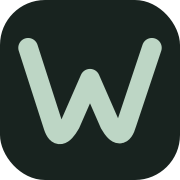
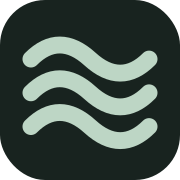
Select Current as Welvia identity with ten-second motion and brand story

Changed region(s): [[0.0833, 0.1944, 0.9167, 0.8333]]

diff --git a/welvia-app/public/brand/brand.css b/welvia-app/public/brand/brand.css
@@ -1,35 +1,6 @@
-.brand-lockup{display:inline-flex;align-items:center;gap:9px;text-decoration:none;font-size:29px;font-weight:750;letter-spacing:-1.8px;color:#18231f}.brand-symbol{width:32px;height:32px;color:#487663;flex-shrink:0;vertical-align:middle}.logo{display:inline-flex;align-items:center;gap:6px}.logo .brand-symbol{width:27px;height:27px}.stroke{transform-origin:center;transition:transform .45s ease}.brand-lockup:hover .stroke,.brand-lockup:focus-visible .stroke,.logo:hover .stroke{transform:scale(.88) rotate(-7deg)}.concept-stage:hover .flow .stroke,.concept-stage:focus .flow .stroke{stroke-dasharray:150;animation:draw 1.6s ease both}.concept-stage:hover .door .stroke,.concept-stage:focus .door .stroke{animation:welcome 1.6s ease both}.concept-stage:hover .link .stroke,.concept-stage:focus .link .stroke{animation:connect 1.6s ease both}@keyframes draw{from{stroke-dashoffset:150}to{stroke-dashoffset:0}}@keyframes welcome{50%{transform:scaleX(1.16)}}@keyframes connect{50%{transform:scale(.8) rotate(8deg)}}@media(prefers-reduced-motion:reduce){*,*::before,*::after{animation:none!important;transition:none!important;scroll-behavior:auto!important}}
-/* The gallery loops independently of hover; all other site marks stay quiet. */
-.concept-stage svg *{transform-box:view-box;transform-origin:32px 32px;animation-duration:4s;animation-timing-function:cubic-bezier(.45,0,.2,1);animation-iteration-count:infinite}
-.concept-stage .flow .stroke{stroke-dasharray:150;animation:study-draw 4s ease-in-out infinite!important}
-.concept-stage .door .stroke{animation:study-door 4s ease-in-out infinite!important}
-.concept-stage .link .stroke{animation:study-connect 4s ease-in-out infinite!important}
-.concept-stage .relay .traveler{animation-name:study-relay}
-.concept-stage .orbit .satellites{animation-name:study-orbit;animation-duration:7s}
-.concept-stage .fold .left{animation-name:study-left}.concept-stage .fold .right{animation-name:study-right}
-.concept-stage .weave .thread{stroke-dasharray:70;animation-name:study-weave}.concept-stage .weave .two{animation-delay:.25s}
-.concept-stage .beacon .echo{animation-name:study-beacon}.concept-stage .beacon .outer{animation-delay:.5s}
-.concept-stage .hinge .panel{transform-origin:35px 32px;animation-name:study-hinge}
-.concept-stage .petal .petals{animation-name:study-petal;animation-duration:6s}
-.concept-stage .assemble .tile{animation-name:study-gather}.concept-stage .assemble .b{--x:7px;--y:-7px;animation-delay:.12s}.concept-stage .assemble .a{--x:-7px;--y:-7px}.concept-stage .assemble .c{--x:-7px;--y:7px;animation-delay:.24s}.concept-stage .assemble .d{--x:7px;--y:7px;animation-delay:.36s}
-.concept-stage .current .wave{animation-name:study-current}.concept-stage .current .b{animation-delay:.2s}.concept-stage .current .c{animation-delay:.4s}
-.concept-stage .portal .arrow{animation-name:study-forward}.concept-stage .portal .frame{animation-name:study-frame}
-@keyframes study-draw{0%,12%{stroke-dashoffset:150}45%,80%{stroke-dashoffset:0}100%{stroke-dashoffset:-150}}
-@keyframes study-door{0%,100%{transform:scaleX(1)}35%,65%{transform:scaleX(1.18)}}
-@keyframes study-connect{0%,100%{transform:scale(.82);opacity:.6}40%,75%{transform:scale(1);opacity:1}}
-@keyframes study-relay{0%,12%{transform:translate(0,0)}35%{transform:translate(10px,-12px)}60%,80%{transform:translate(40px,-24px)}100%{transform:translate(0,0)}}
-@keyframes study-orbit{0%,15%{transform:rotate(0)}85%,100%{transform:rotate(360deg)}}
-@keyframes study-left{0%,100%{transform:translate(-4px,0) rotate(-12deg)}40%,75%{transform:none}}
-@keyframes study-right{0%,100%{transform:translate(4px,0) rotate(12deg)}40%,75%{transform:none}}
-@keyframes study-weave{0%,10%{stroke-dashoffset:70;opacity:.35}50%,80%{stroke-dashoffset:0;opacity:1}100%{stroke-dashoffset:-70;opacity:.35}}
-@keyframes study-beacon{0%{transform:scale(.5);opacity:.15}35%{opacity:.9}80%,100%{transform:scale(1.08);opacity:.15}}
-@keyframes study-hinge{0%,100%{transform:scaleX(.15)}35%,70%{transform:scaleX(1)}}
-@keyframes study-petal{0%,12%{transform:rotate(-20deg) scale(.83)}55%,80%{transform:rotate(100deg) scale(1)}100%{transform:rotate(100deg) scale(.83)}}
-@keyframes study-gather{0%,100%{transform:translate(var(--x),var(--y));opacity:.45}40%,75%{transform:translate(0,0);opacity:1}}
-@keyframes study-current{0%,100%{transform:translateX(-3px)}40%,65%{transform:translateX(3px)}}
-@keyframes study-forward{0%,15%{transform:translateX(-9px);opacity:.25}50%,75%{transform:translateX(0);opacity:1}100%{transform:translateX(9px);opacity:.25}}
-@keyframes study-frame{0%,100%{transform:scale(.94)}50%,75%{transform:scale(1.06)}}
-body.motion-paused .concept-stage svg *,body .concept-stage.motion-offscreen svg *{animation-play-state:paused!important}
-.motion-controls{display:flex;gap:18px;align-items:center;flex-wrap:wrap;margin-top:30px}.motion-controls button{font:inherit;border:1px solid #18231f;border-radius:40px;padding:12px 20px;background:#18231f;color:#f4f3f0;cursor:pointer}.motion-controls button:disabled{opacity:.6;cursor:default}.motion-controls span{font-size:13px;color:#58665d}.design-notes{max-width:800px;margin:0 auto 70px;line-height:1.7}.design-notes h2{font-size:36px;letter-spacing:-.04em}.concept:nth-child(3n+2) .concept-stage{background:#e9e3d6}.concept:nth-child(3n) .concept-stage{background:#18231f}.concept:nth-child(3n) .concept-symbol{color:#bdd6c5}
-@media(prefers-reduced-motion:reduce){.concept-stage svg *{animation:none!important;stroke-dashoffset:0!important}}
-@media(prefers-reduced-motion:reduce){#main .concept-stage svg *{animation:none!important;stroke-dashoffset:0!important}}
+.brand-lockup{display:inline-flex;align-items:center;gap:9px;text-decoration:none;font-size:29px;font-weight:750;letter-spacing:-1.8px;color:#18231f}.brand-symbol{width:32px;height:32px;color:#487663;flex-shrink:0;vertical-align:middle}.logo{display:inline-flex;align-items:center;gap:6px}.logo .brand-symbol{width:27px;height:27px}
+/* One short wave, then rest, in every ten-second cycle. */
+.current .wave{transform-box:view-box;transform-origin:32px 32px;animation:welvia-current 10s cubic-bezier(.45,0,.2,1) infinite}.current .wave.b{animation-delay:.16s}.current .wave.c{animation-delay:.32s}@keyframes welvia-current{0%,24%,100%{transform:translateX(0)}7%{transform:translateX(-3px)}15%{transform:translateX(3px)}}
+html.motion-paused .current .wave,html.page-hidden .current .wave{animation-play-state:paused}.current-intro{padding-bottom:35px}.current-showcase{border-radius:22px;background:#18231f;color:#bdd6c5;padding:50px;margin-bottom:75px}.current-mark-stage{min-height:300px;display:flex;align-items:center;justify-content:center;gap:25px}.current-hero-mark{width:180px;height:180px;flex-shrink:0}.current-wordmark{font-size:clamp(60px,10vw,130px);font-weight:650;letter-spacing:-.08em}.current-caption{display:flex;justify-content:space-between;align-items:center;gap:20px;padding-top:25px;border-top:1px solid #4c6155;font-size:13px}.current-caption button{font:inherit;border:1px solid #bdd6c5;border-radius:30px;background:transparent;color:#e2eee4;padding:10px 17px;cursor:pointer}.current-caption button:disabled{opacity:.6;cursor:default}#motion-status{font-size:12px;color:#bdd6c5;margin-bottom:0}.brand-story{max-width:760px}.brand-story .kicker{color:#487663}.brand-story section{margin-bottom:55px}
+@media(max-width:600px){.current-showcase{padding:25px}.current-mark-stage{min-height:230px;gap:12px}.current-hero-mark{width:100px;height:100px}.current-caption{align-items:start;flex-direction:column;gap:14px}}
+@media(prefers-reduced-motion:reduce){*,*::before,*::after{animation:none!important;transition:none!important;scroll-behavior:auto!important}}

diff --git a/welvia-app/content/brand-profile.html b/welvia-app/content/brand-profile.html
@@ -1,0 +1,12 @@
+<section class="journal-hero current-intro"><span class="kicker">Welvia / Our identity</span><h1>Meet <em>Current.</em></h1><p class="dek">Three lines. A shared direction. A place for small businesses in what comes next.</p></section>
+<section class="current-showcase" aria-label="Current logo"><div class="current-mark-stage">{{CURRENT_MARK}}<span class="current-wordmark">welvia</span></div><div class="current-caption"><span>Discovery · Understanding · Action</span><button type="button" id="motion-toggle" aria-pressed="false">Pause animation</button></div><p id="motion-status" role="status">A gentle wave every ten seconds. Quiet in between.</p></section>
+<article class="prose brand-story">
+<section><span class="kicker">The idea behind the mark</span><h2>Bring the current to the neighborhood.</h2><p>A new way of finding businesses is taking shape. People can ask an assistant to help them explore a service, compare an option or prepare a request. Welvia exists to help independent businesses take part in that journey, with information that is easier to understand and actions their teams can confidently support.</p><p>Current gives that purpose a simple visual form. It suggests movement, connection and continuity. A current carries something forward. Our job is to help bring that movement within reach of the restaurant around the corner, the local service provider and the owner who has a business to run.</p><p>The image we want to create is welcoming: a small business joining a useful flow of activity while keeping its own character, judgment and relationship with its customers. Technology should make the next step easier for those people.</p></section>
+<section><span class="kicker">Why this direction</span><h2>A mark built around what Welvia does.</h2><p>We explored thirteen directions, from monograms and doorways to paths, connections and signals. Current became the selected identity because its three flowing lines connect naturally to Welvia’s purpose. The shape is simple enough to recognize at a glance, and movement is already part of its visual language.</p><p>A wave does not need a complicated reveal to come alive. Each line can move slightly, respond to the next and return to a calm position. That gives us an animation that belongs to the mark itself, rather than an effect that could be attached to any logo.</p><p>It also gives Welvia room to grow. The shape can sit beside a restaurant proposal, a tradesperson’s inquiry form or an article about agent discovery. It represents a shared approach without tying the company to one industry or one piece of software.</p></section>
+<section><span class="kicker">Three currents, one journey</span><h2>Find. Understand. Act.</h2><p>The first line represents <strong>discovery</strong>: making a business’s public information easier to find. A customer’s assistant needs a reliable starting point and a clear path to relevant details.</p><p>The second represents <strong>understanding</strong>: making those details useful. Services, menus, locations, policies and limits should tell a coherent story. The business remains the authority on what it offers.</p><p>The third represents <strong>action</strong>: helping a customer take the next approved step. That might be preparing a complete catering inquiry or requesting a quote. The meaning of that step should be clear, including when staff still need to confirm availability or price.</p><p>The lines travel together but remain distinct. That is intentional. Being found, being understood and completing an action are different jobs. Welvia connects them into a customer journey that can be reviewed and improved.</p></section>
+<section><span class="kicker">How it moves</span><h2>A little momentum. Plenty of calm.</h2><p>Every ten seconds, a gentle movement passes through the three lines. The slight offset gives the mark a sense of one current following another. It then settles, leaving space for the content and the business around it.</p><p>That rhythm expresses how we want Welvia to feel: attentive, steady and helpful. Movement should support the experience. It should not compete with a menu, a customer’s question or the next decision an owner needs to make.</p><p>On-page marks share that rhythm. Browser-tab icons, saved-device icons and social preview images use the still version so the same shape stays recognizable in small and static contexts. People who prefer reduced motion see a still mark.</p></section>
+<section><span class="kicker">A familiar kind of confidence</span><h2>Warmth belongs in technology.</h2><p>The rounded ends soften the geometry. The deep green gives the mark definition, while the sage and cream palette keeps it approachable. Together they express a service built to work alongside people and the businesses they care about.</p><p>We kept the lowercase Welvia wordmark and let the symbol do a small amount of storytelling. The identity should feel comfortable on an independent business’s screen, whether the owner is reviewing a proposal or checking how an assistant answered a customer’s question.</p></section>
+<aside class="takeaway"><span class="kicker">What Current stands for</span><p>Small businesses should have a place in the next flow of commerce. Welvia helps them become easier to discover, easier to understand and ready for a useful next step.</p></aside>
+<section><h2>A practical identity</h2><p>The same vector geometry appears across the website, business pages and journal. A compact version serves as the favicon. The mark can be used in deep green on a light surface or in sage on a dark surface, with enough space around it to keep all three lines legible.</p><p>This is the selected Welvia identity, not a claim of certification or a promise that every agent will discover every business. Its role is to express the work we are committed to doing: bringing the currents of new technology closer to small businesses, one useful connection at a time.</p><p><a href="/brand/current.svg" download>Download the Current mark (SVG) ↗</a></p></section>
+</article>
+<section class="closing"><span class="kicker">Welvia</span><h2>Small businesses.<br>Part of what comes next.</h2><p>Discoverable. Understandable. Actionable.</p><a class="button" href="/blog/index.html">Explore the journal ↗</a></section>

diff --git a/welvia-app/public/brand/motion.js b/welvia-app/public/brand/motion.js
@@ -1,0 +1,3 @@
+(()=>{const root=document.documentElement,button=document.getElementById('motion-toggle'),status=document.getElementById('motion-status'),reduced=matchMedia('(prefers-reduced-motion: reduce)');let paused=false;
+function sync(){root.classList.toggle('motion-paused',paused);root.classList.toggle('page-hidden',document.hidden);if(button){button.disabled=reduced.matches;button.textContent=paused?'Play animation':'Pause animation';button.setAttribute('aria-pressed',String(paused));status.textContent=reduced.matches?'A still mark, respecting your reduced-motion preference.':paused?'Animation paused.':'A gentle wave every ten seconds. Quiet in between.';}}
+button?.addEventListener('click',()=>{paused=!paused;sync()});document.addEventListener('visibilitychange',sync);reduced.addEventListener('change',sync);sync();})();

diff --git a/welvia-app/scripts/build_editorial.py b/welvia-app/scripts/build_editorial.py
@@ -1,6 +1,6 @@
 """Render public editorial HTML without exposing any business database records."""
 import json,html,re,math
-from brand_studies import SHAPES,CONCEPTS
+from brand_studies import SHAPES
 from pathlib import Path
 from datetime import date,datetime,timezone
 from email.utils import format_datetime
@@ -14,22 +14,20 @@ for p in POSTS:
  assert p['date']<=TODAY and p['date']<=p['updated']<=TODAY
  assert all(s['url'].startswith('https://') for s in p['sources'])
 POSTS.sort(key=lambda p:p['date'],reverse=True)
-def svg(kind='flow',cls='brand-symbol'):
- shapes={'flow':'<path class="stroke" d="M10 17 L19 45 Q21 51 25 44 L32 28 L39 44 Q43 51 45 44 L54 17"/>', 'door':'<path class="stroke" d="M16 49 V29 A16 16 0 0 1 32 13 A16 16 0 0 1 48 29 V49 M26 49 V31 A6 6 0 0 1 38 31 V49"/>', 'link':'<path class="stroke" d="M27 20 L20 20 A12 12 0 0 0 20 44 H27 M37 20 H44 A12 12 0 0 1 44 44 H37 M24 32 H40"/>'}
- shapes.update(SHAPES)
- return f'<svg class="{cls} {kind}" viewBox="0 0 64 64" fill="none" stroke="currentColor" stroke-width="7" stroke-linecap="round" stroke-linejoin="round" aria-hidden="true">{shapes[kind]}</svg>'
+def svg(kind='current',cls='brand-symbol'):
+ return f'<svg class="{cls} current" viewBox="0 0 64 64" fill="none" stroke="currentColor" stroke-width="7" stroke-linecap="round" stroke-linejoin="round" aria-hidden="true">{SHAPES["current"]}</svg>'
 def logo():return '<a class="brand-lockup" href="/" aria-label="Welvia home">'+svg()+'<span>welvia</span></a>'
 def head(title,desc,path,index=True,article=None):
  url=HOST+path
- schema={'@context':'https://schema.org','@type':'Blog' if path=='/blog/index.html' else 'WebPage','name':title,'url':url,'description':desc,'publisher':{'@type':'Organization','name':'Welvia','url':HOST+'/','logo':HOST+'/brand/icon-512.png'}}
+ schema={'@context':'https://schema.org','@type':'Blog' if path=='/blog/index.html' else 'WebPage','name':title,'url':url,'description':desc,'publisher':{'@type':'Organization','name':'Welvia','url':HOST+'/','logo':HOST+'/brand/icon-512.png?v=current-1'}}
  extra=''
  if article:
-  schema.update({'@type':'BlogPosting','headline':article['title'],'datePublished':article['date'],'dateModified':article['updated'],'author':{'@type':'Organization','name':'Welvia','url':HOST+'/'},'mainEntityOfPage':url,'image':HOST+'/brand/social-card.png','inLanguage':'en-US','citation':[s['url'] for s in article['sources']]})
+  schema.update({'@type':'BlogPosting','headline':article['title'],'datePublished':article['date'],'dateModified':article['updated'],'author':{'@type':'Organization','name':'Welvia','url':HOST+'/'},'mainEntityOfPage':url,'image':HOST+'/brand/social-card.png?v=current-1','inLanguage':'en-US','citation':[s['url'] for s in article['sources']]})
   extra=f'<meta property="article:published_time" content="{article["date"]}T12:00:00Z"><meta property="article:modified_time" content="{article["updated"]}T12:00:00Z"><meta property="article:section" content="{E(article["category"])}"><link rel="alternate" type="text/markdown" href="{E(path[:-5]+".md")}">'
- return f'''<meta charset="utf-8"><meta name="viewport" content="width=device-width,initial-scale=1"><title>{E(title)}</title><meta name="description" content="{E(desc)}"><meta name="robots" content="{'index,follow,max-image-preview:large' if index else 'noindex,nofollow'}"><meta name="theme-color" content="#18231f"><meta name="color-scheme" content="light"><meta name="referrer" content="strict-origin-when-cross-origin"><link rel="canonical" href="{url}"><link rel="icon" type="image/svg+xml" href="/brand/favicon.svg"><link rel="icon" type="image/png" sizes="32x32" href="/brand/favicon-32.png"><link rel="apple-touch-icon" sizes="180x180" href="/brand/apple-touch-icon.png"><link rel="manifest" href="/site.webmanifest"><meta property="og:type" content="{'article' if article else 'website'}"><meta property="og:site_name" content="Welvia"><meta property="og:locale" content="en_US"><meta property="og:title" content="{E(title)}"><meta property="og:description" content="{E(desc)}"><meta property="og:url" content="{url}"><meta property="og:image" content="{HOST}/brand/social-card.png"><meta property="og:image:width" content="1200"><meta property="og:image:height" content="630"><meta property="og:image:alt" content="Welvia — Small businesses. Ready for what comes next."><meta name="twitter:card" content="summary_large_image"><meta name="twitter:title" content="{E(title)}"><meta name="twitter:description" content="{E(desc)}"><meta name="twitter:image" content="{HOST}/brand/social-card.png"><meta name="twitter:image:alt" content="Welvia — Small businesses. Ready for what comes next."><link rel="alternate" type="application/rss+xml" title="Welvia Journal" href="/blog/feed.xml"><link rel="describedby" href="/llms.txt" type="text/plain">{extra}<script type="application/ld+json">{json.dumps(schema).replace('<',chr(92)+'u003c')}</script>'''
+ return f'''<meta charset="utf-8"><meta name="viewport" content="width=device-width,initial-scale=1"><title>{E(title)}</title><meta name="description" content="{E(desc)}"><meta name="robots" content="{'index,follow,max-image-preview:large' if index else 'noindex,nofollow'}"><meta name="theme-color" content="#18231f"><meta name="color-scheme" content="light"><meta name="referrer" content="strict-origin-when-cross-origin"><link rel="canonical" href="{url}"><link rel="icon" type="image/svg+xml" href="/brand/favicon.svg?v=current-1"><link rel="icon" type="image/png" sizes="32x32" href="/brand/favicon-32.png?v=current-1"><link rel="apple-touch-icon" sizes="180x180" href="/brand/apple-touch-icon.png?v=current-1"><link rel="manifest" href="/site.webmanifest"><meta property="og:type" content="{'article' if article else 'website'}"><meta property="og:site_name" content="Welvia"><meta property="og:locale" content="en_US"><meta property="og:title" content="{E(title)}"><meta property="og:description" content="{E(desc)}"><meta property="og:url" content="{url}"><meta property="og:image" content="{HOST}/brand/social-card.png?v=current-1"><meta property="og:image:width" content="1200"><meta property="og:image:height" content="630"><meta property="og:image:alt" content="Welvia — Small businesses. Ready for what comes next."><meta name="twitter:card" content="summary_large_image"><meta name="twitter:title" content="{E(title)}"><meta name="twitter:description" content="{E(desc)}"><meta name="twitter:image" content="{HOST}/brand/social-card.png?v=current-1"><meta name="twitter:image:alt" content="Welvia — Small businesses. Ready for what comes next."><link rel="alternate" type="application/rss+xml" title="Welvia Journal" href="/blog/feed.xml"><link rel="describedby" href="/llms.txt" type="text/plain">{extra}<script type="application/ld+json">{json.dumps(schema).replace('<',chr(92)+'u003c')}</script>'''
 def shell(title,desc,path,body,index=True,article=None):
- return '<!doctype html><html lang="en"><head>'+head(title,desc,path,index,article)+'<link rel="stylesheet" href="/brand/brand.css"><link rel="stylesheet" href="/blog/editorial.css"></head><body><a class="skip" href="#main">Skip to content</a><header><nav>'+logo()+'<div><a href="/blog/index.html">Journal</a><a class="button" href="/#how">Explore Welvia ↗</a></div></nav></header><main id="main">'+body+'</main><footer>'+logo()+'<p>Small businesses. Ready for what comes next.</p><a href="/blog/feed.xml">RSS feed ↗</a><span>© '+TODAY[:4]+' Welvia</span></footer></body></html>'
-def card(p,i):return f'<a class="story-card" href="/blog/{p["slug"]}.html"><div class="card-art art-{i%3}" aria-hidden="true">{svg(["flow","door","link"][i%3],"art-symbol")}<span>{str(i+1).zfill(2)}</span></div><div class="card-copy"><span class="kicker">{E(p["category"])}</span><h2>{E(p["title"])}</h2><p>{E(p["description"])}</p><span class="read">Read the story ↗</span></div></a>'
+ return '<!doctype html><html lang="en"><head>'+head(title,desc,path,index,article)+'<link rel="stylesheet" href="/brand/brand.css?v=current-1"><script src="/brand/motion.js" defer></script><link rel="stylesheet" href="/blog/editorial.css"></head><body><a class="skip" href="#main">Skip to content</a><header><nav>'+logo()+'<div><a href="/blog/index.html">Journal</a><a class="button" href="/#how">Explore Welvia ↗</a></div></nav></header><main id="main">'+body+'</main><footer>'+logo()+'<p>Small businesses. Ready for what comes next.</p><a href="/blog/feed.xml">RSS feed ↗</a><span>© '+TODAY[:4]+' Welvia</span></footer></body></html>'
+def card(p,i):return f'<a class="story-card" href="/blog/{p["slug"]}.html"><div class="card-art art-{i%3}" aria-hidden="true">{svg("current","art-symbol")}<span>{str(i+1).zfill(2)}</span></div><div class="card-copy"><span class="kicker">{E(p["category"])}</span><h2>{E(p["title"])}</h2><p>{E(p["description"])}</p><span class="read">Read the story ↗</span></div></a>'
 (OUT/'blog').mkdir(parents=True,exist_ok=True)
 for i,p in enumerate(POSTS):
  path='/blog/'+p['slug']+'.html'; words=sum(len(x.split()) for s in p['sections'] for x in s['paragraphs']); mins=max(2,math.ceil(words/200))
@@ -57,20 +55,14 @@ for path,d in [('/blog/index.html',max(p['updated'] for p in POSTS))]+[('/blog/'
 (OUT/'sitemap.xml').write_bytes(tostring(sm,encoding='utf-8',xml_declaration=True))
 # Preserve the homepage's existing noindex policy and private invitation flows.
 f=OUT/'index.html';s=f.read_text();s=re.sub(r'<meta charset="utf-8">.*?<title>.*?</title>',head('Welvia | Make your business discoverable and actionable','Help compatible AI agents understand your business and prepare useful requests. Clear information, approved actions and measurable checks.','/',False),s,count=1,flags=re.S)
-s=s.replace('</head>','<link rel="stylesheet" href="/brand/brand.css"></head>').replace('welvia<i>✳</i>','welvia'+svg()).replace('welvia✳','welvia').replace('✳','·')
+s=s.replace('</head>','<link rel="stylesheet" href="/brand/brand.css?v=current-1"><script src="/brand/motion.js" defer></script></head>').replace('welvia<i>✳</i>',svg()+'welvia').replace('welvia✳',svg()+'welvia').replace('✳','·')
 s=s.replace('<a href="#growth">Why now</a>','<a href="/blog/index.html">Journal</a><a href="#growth">Why now</a>')
 f.write_text(s)
-f=OUT/'pitch-template.html';s=f.read_text().replace('welvia<i>✳</i>','welvia'+svg()).replace('welvia✳','welvia');f.write_text(s)
-# Three live vector concepts: CSS motion stops for reduced-motion preferences.
-concepts=[('flow','01 / Flow W','A continuous path from a question to a useful action. The strongest fit for a compact favicon.'),('door','02 / Open door','A welcoming entrance for the next kind of customer. Softer and more architectural.'),('link','03 / Connection','Two sides meeting through a shared interface. A direct expression of useful connections.')]
-concepts += CONCEPTS
-body='<section class="journal-hero"><span class="kicker">Welvia / Identity studies</span><h1>Make the<br>connection <em>visible.</em></h1><p class="dek">13 directions. One warm, confident palette. Each mark loops while it is on screen. Compare the movement with the still favicon below.</p><div class="motion-controls"><button type="button" id="motion-toggle" aria-pressed="false">Pause animations</button><span id="motion-status" role="status">Animations play automatically. Reduced-motion preferences are respected.</span></div></section><section class="concept-grid">'
-for kind,title,desc in concepts:
- body+='<article class="concept" id="concept-'+kind+'"><div class="concept-stage" aria-label="Animated preview: '+E(title)+'">'+svg(kind,'concept-symbol')+'</div><p class="kicker">'+title+'</p><h2>'+title.split(' / ')[1]+'</h2><p>'+desc+'</p><div class="favicon-samples"><span>In a browser tab</span>'+svg(kind)+'<span>Welvia</span></div><a href="/brand/'+kind+'.svg" download>Download SVG ↗</a></article>'
-body+='</section><section class="design-notes"><span class="kicker">What informed these studies</span><h2>Motion with a reason.</h2><p>Explore widely, keep the silhouette legible, and give each mark a behavior connected to Welvia: finding, connecting or taking a useful next step. These are original studies, not reproductions of another studio’s identity.</p><p>References: <a href="https://iteration.design/">Iteration — exploration and craft</a> · <a href="https://www.ordinaryfolk.co/process">Ordinary Folk — personality through motion</a> · <a href="https://animations.dev/">Emil Kowalski — animation craft</a> · <a href="https://www.designweek.co.uk/the-strongest-motion-identities-encode-behaviour-not-aesthetics/">Andrew Vucko — brand behavior</a></p></section><script src="/brand/studies.js" defer></script><section class="closing"><span class="kicker">Working direction / Flow W</span><h2>Simple enough to recognize.<br>Flexible enough to move.</h2><p>The Flow W is the current working mark. Each option is vector artwork, scales down to a favicon and has a reduced-motion state. These are original design concepts, not a trademark-clearance result.</p></section>'
-(OUT/'brand.html').write_text(shell('Welvia | Logo exploration','Thirteen animated logo directions for Welvia, with looping previews and favicon studies.','/brand.html',body,index=False))
-for kind,_,_ in concepts:
- (OUT/'brand'/(kind+'.svg')).write_text(svg(kind).replace('<svg ','<svg xmlns="http://www.w3.org/2000/svg" ').replace('currentColor','#18231f'))
+f=OUT/'pitch-template.html';s=f.read_text().replace('welvia<i>✳</i>',svg()+'welvia').replace('welvia✳',svg()+'welvia');f.write_text(s)
+# Current is the sole selected identity. Retired concepts are no longer generated.
+profile=(ROOT/'content/brand-profile.html').read_text().replace('{{CURRENT_MARK}}',svg('current','current-hero-mark'))
+(OUT/'brand.html').write_text(shell('Current | The Welvia identity','The story behind Current: three flowing lines that connect small businesses to discovery, understanding and useful action.','/brand.html',profile,index=False))
+(OUT/'brand/current.svg').write_text(svg().replace('<svg ','<svg xmlns="http://www.w3.org/2000/svg" ').replace('currentColor','#18231f'))
 # Agent-readable index links only public editorial content, never private business data.
 f=OUT/'llms.txt';f.write_text(f.read_text()+'\n## Journal\n\n- [Welvia Journal]('+HOST+'/blog/index.html): Essays and practical guides.\n'+''.join('- ['+p['title']+']('+HOST+'/blog/'+p['slug']+'.md)\n' for p in POSTS))
-print('Rendered',len(POSTS),'articles, RSS, sitemap, metadata and identity studies')
+print('Rendered',len(POSTS),'articles, RSS, sitemap, metadata and Current brand profile')

diff --git a/welvia-app/scripts/brand_studies.py b/welvia-app/scripts/brand_studies.py
@@ -1,25 +1,4 @@
-"""Original vector motion studies; no third-party artwork or assets."""
+"""Welvia Current: the selected three-wave identity."""
 SHAPES={
-'relay':'<path class="rail" d="M12 44 Q22 44 22 32 T42 20 H52" stroke-width="5"/><circle class="traveler" cx="12" cy="44" r="6" fill="currentColor" stroke="none"/>',
-'orbit':'<g class="satellites"><ellipse cx="32" cy="32" rx="23" ry="12" transform="rotate(-35 32 32)" stroke-width="4"/><circle cx="51" cy="20" r="5" fill="currentColor" stroke="none"/></g><circle cx="32" cy="32" r="6" fill="currentColor" stroke="none"/>',
-'fold':'<path class="wing left" d="M10 18 L24 46 L32 28"/><path class="wing right" d="M32 28 L40 46 L54 18"/>',
-'weave':'<path class="thread one" d="M12 18 C32 18 32 46 52 46"/><path class="thread two" d="M12 46 C32 46 32 18 52 18"/>',
-'beacon':'<circle class="echo outer" cx="32" cy="32" r="23" stroke-width="3"/><circle class="echo inner" cx="32" cy="32" r="15" stroke-width="4"/><circle cx="32" cy="32" r="6" fill="currentColor" stroke="none"/>',
-'hinge':'<path d="M14 49 V17 H35 V49" stroke-width="5"/><path class="panel" d="M35 17 L51 12 V44 L35 49 Z" fill="currentColor" stroke-width="3"/>',
-'petal':'<g class="petals" fill="currentColor" stroke="none"><ellipse class="leaf a" cx="25" cy="22" rx="9" ry="15" transform="rotate(-35 25 22)"/><ellipse class="leaf b" cx="42" cy="29" rx="9" ry="15" transform="rotate(45 42 29)"/><ellipse class="leaf c" cx="28" cy="44" rx="9" ry="15" transform="rotate(80 28 44)"/></g>',
-'assemble':'<g fill="currentColor" stroke="none"><rect class="tile a" x="12" y="12" width="18" height="18" rx="6"/><rect class="tile b" x="34" y="12" width="18" height="18" rx="6"/><rect class="tile c" x="12" y="34" width="18" height="18" rx="6"/><rect class="tile d" x="34" y="34" width="18" height="18" rx="6"/></g>',
 'current':'<path class="wave a" d="M11 21 Q21 11 32 21 T53 21" stroke-width="6"/><path class="wave b" d="M11 33 Q21 23 32 33 T53 33" stroke-width="6"/><path class="wave c" d="M11 45 Q21 35 32 45 T53 45" stroke-width="6"/>',
-'portal':'<rect class="frame" x="13" y="13" width="38" height="38" rx="12" stroke-width="5"/><path class="arrow" d="M24 32 H42 M34 24 L42 32 L34 40" stroke-width="5"/>'
 }
-CONCEPTS=[
-('relay','04 / Relay','A question becomes a handoff. A traveling dot follows a rising path, then rests at its destination.'),
-('orbit','05 / Orbit','A business at the center of a connected world. The satellite circles while the core stays steady.'),
-('fold','06 / Fold W','Two soft folds assemble into a W. A compact monogram with a tactile opening gesture.'),
-('weave','07 / Weave','People and agents meeting halfway. Two independent paths draw together into one interwoven mark.'),
-('beacon','08 / Beacon','Be easier to find. Quiet expanding rings carry a signal out from a stable center.'),
-('hinge','09 / Welcome','Open for the next customer. A small doorway opens and closes with a deliberate pause.'),
-('petal','10 / Flourish','Growth through connection. Three organic forms turn together and settle into a friendly, rounded silhouette.'),
-('assemble','11 / Gather','Scattered details become something useful. Four rounded modules gather into an orderly whole.'),
-('current','12 / Current','A smoother customer journey. Three offset waves move in a gentle, coordinated rhythm.'),
-('portal','13 / Forward','Understanding leads to action. An arrow moves through an open frame and returns for the next request.')
-]

diff --git a/welvia-app/README.md b/welvia-app/README.md
@@ -69,6 +69,6 @@ Each manual run evaluates ten scenarios once per variant. Reported checks are de
 
 ## Welvia Journal and brand
 
-Public journal: `/blog/index.html`; visual identity studies: `/brand.html` (noindex). Ten initial articles live in `content/posts.json`. Read `content/EDITORIAL.md` before editing or publishing. Weekly articles are produced by an owner-authorized ChatGPT task, committed through a validated PR and deployed by the existing app workflow; no model or publishing secret is shipped to the browser. The task runs Monday mornings in America/New_York.
+Public journal: `/blog/index.html`; Current identity and brand profile: `/brand.html` (noindex). Ten initial articles live in `content/posts.json`. Read `content/EDITORIAL.md` before editing or publishing. Weekly articles are produced by an owner-authorized ChatGPT task, committed through a validated PR and deployed by the existing app workflow; no model or publishing secret is shipped to the browser. The task runs Monday mornings in America/New_York.
 
 The build generates readable article HTML, alternate Markdown, article-specific titles/descriptions/canonical and social tags, BlogPosting structured data, RSS and a journal-only sitemap. Static assets include SVG/PNG favicons, Apple touch icon, manifest and a 1200×630 social image. No invented social handles or unverifiable business contact metadata are added. Homepage and private business noindex/access settings are preserved. The new public journal is allowed in robots.txt. A crawler being allowed does not guarantee indexing.

diff --git a/welvia-app/content/EDITORIAL.md b/welvia-app/content/EDITORIAL.md
@@ -24,4 +24,4 @@ Only the journal is newly allowed for indexing in robots.txt. Existing root home
 
 ## Identity assets
 
-Flow W is the working replacement for the star, pending the owner's preference. `/brand.html` compares thirteen original SVG concepts with automatic viewport-aware loops, pause/resume controls and reduced-motion support. Source SVGs, PNG favicons, Apple icon, web manifest and social image live under public/brand. Do not change the mark in a weekly content run. Vector marks are original design studies; no trademark clearance is claimed.
+Current is the owner's selected Welvia identity: three flowing lines for discovery, understanding and action. `/brand.html` presents only this mark and its brand profile. On-page SVGs animate once every ten seconds with pause and reduced-motion support; favicons and social images remain still. Assets live under public/brand, with the shared SVG geometry in scripts/brand_studies.py. Do not change the mark in a weekly content run. No trademark clearance is claimed.
